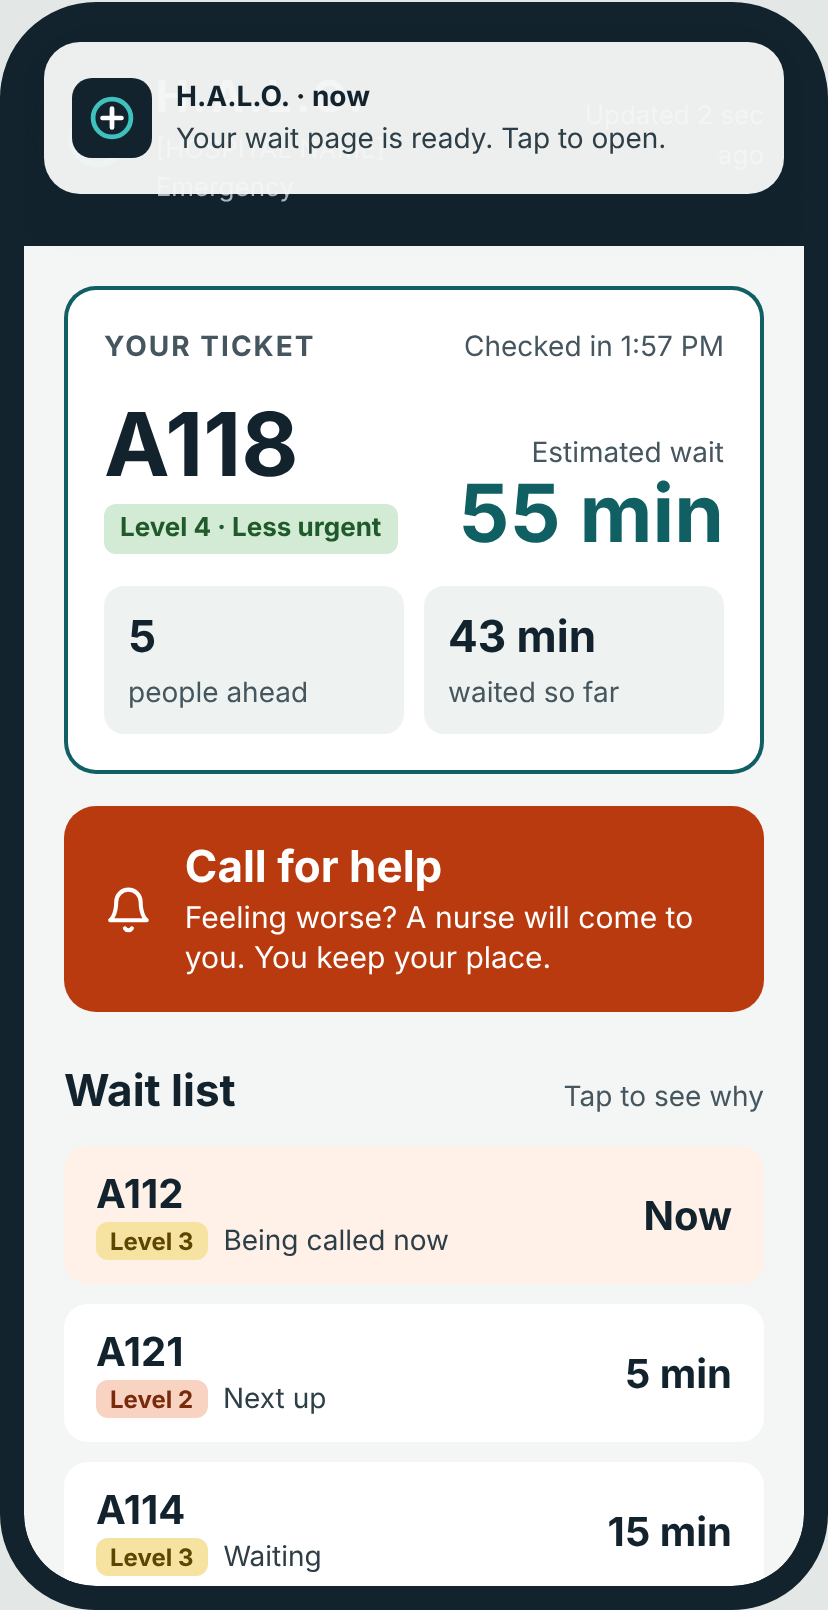
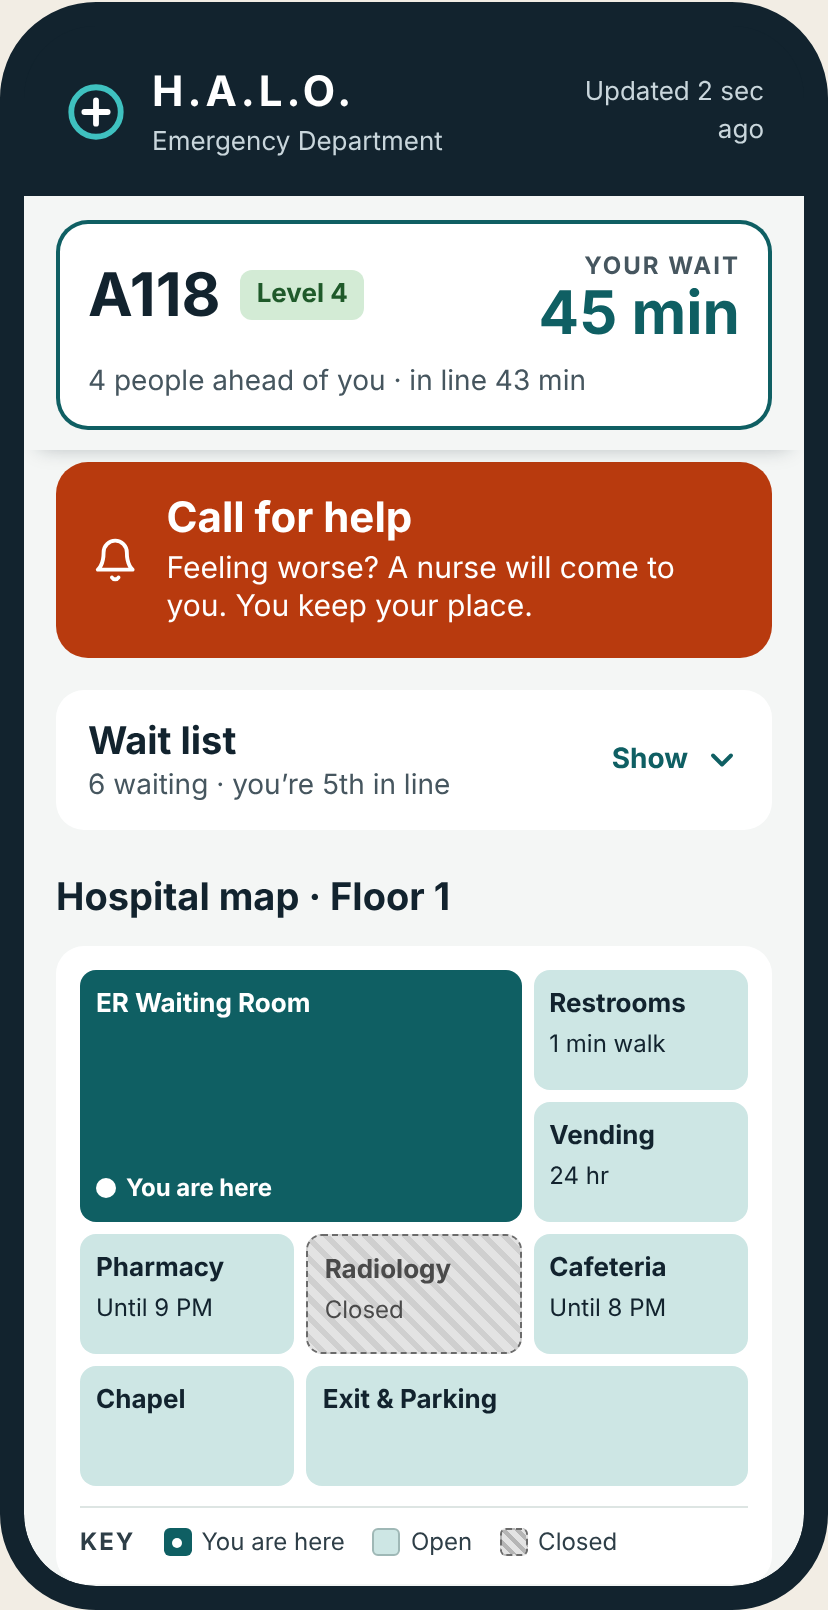
Simplify phone ticket card, pin it while scrolling, make wait list a dropdown
Claude-Session: https://claude.ai/code/session_01JPVrxjvNyRJugvYniBXqZG

diff --git a/index.html b/index.html
@@ -589,121 +589,132 @@ footer { font-size: 14px; color: var(--muted); display: flex; flex-wrap: wrap; g
   <div style="width: 900px; height: 36px; background: #151F25; border-radius: 6px"></div>
   <div style="margin-top: 22px; font-size: 16px; color: #46565F">Freestanding tower, same screen on all four sides</div>
 </div></template>
-<template id="phoneTpl"><div style="width: 390px; min-height: 1500px; box-sizing: border-box; background: #F4F6F5; font-family: 'Atkinson Hyperlegible', system-ui, sans-serif; color: #12232E; display: flex; flex-direction: column">
+<template id="phoneTpl"><div style="width: 390px; box-sizing: border-box; background: #F4F6F5; font-family: 'Atkinson Hyperlegible', system-ui, sans-serif; color: #12232E; display: flex; flex-direction: column; padding-bottom: 8px">
 
+  <!-- "page sent" notification after tapping the kiosk pad -->
   <sc-if value="{{nfcBanner}}" hint-placeholder-val="{{false}}">
-    <div role="status" style="position: sticky; top: 8px; z-index: 5; margin: 8px 10px -84px; height: 76px; box-sizing: border-box; padding: 12px 14px; border-radius: 18px; background: rgba(244,246,245,0.97); box-shadow: 0 6px 24px rgba(18,35,46,0.28); display: flex; align-items: center; gap: 12px">
+    <div role="status" style="position: sticky; top: 8px; z-index: 6; margin: 8px 10px -84px; height: 76px; box-sizing: border-box; padding: 12px 14px; border-radius: 18px; background: rgba(244,246,245,0.97); box-shadow: 0 6px 24px rgba(18,35,46,0.28); display: flex; align-items: center; gap: 12px">
       <div style="width: 40px; height: 40px; flex-shrink: 0; border-radius: 10px; background: #12232E; display: flex; align-items: center; justify-content: center"><svg width="26" height="26" viewBox="0 0 44 44" aria-hidden="true"><circle cx="22" cy="22" r="16" fill="none" stroke="#3FC1C0" stroke-width="4"></circle><path d="M22 14v16M14 22h16" stroke="#FFFFFF" stroke-width="4" stroke-linecap="round"></path></svg></div>
       <div style="display: flex; flex-direction: column"><div style="font-size: 14px; font-weight: 700">H.A.L.O. · now</div><div style="font-size: 14px; color: #2E3E47">Your wait page is ready. Tap to open.</div></div>
     </div>
   </sc-if>
-  <!-- Header -->
-  <header style="padding: 20px 20px 18px 20px; background: #12232E; color: #FFFFFF; display: flex; align-items: center; justify-content: space-between">
+
+  <!-- Header (scrolls away) -->
+  <header style="padding: 18px 20px 16px 20px; background: #12232E; color: #FFFFFF; display: flex; align-items: center; justify-content: space-between">
     <div style="display: flex; align-items: center; gap: 12px">
-      <svg width="34" height="34" viewBox="0 0 44 44" aria-hidden="true"><circle cx="22" cy="22" r="17" fill="none" stroke="{{halo}}" stroke-width="4"></circle><path d="M22 14v16M14 22h16" stroke="#FFFFFF" stroke-width="4" stroke-linecap="round"></path></svg>
+      <svg width="32" height="32" viewBox="0 0 44 44" aria-hidden="true"><circle cx="22" cy="22" r="17" fill="none" stroke="{{halo}}" stroke-width="4"></circle><path d="M22 14v16M14 22h16" stroke="#FFFFFF" stroke-width="4" stroke-linecap="round"></path></svg>
       <div style="display: flex; flex-direction: column">
-        <div style="font-size: 22px; font-weight: 700; letter-spacing: 2px">H.A.L.O.</div>
+        <div style="font-size: 21px; font-weight: 700; letter-spacing: 2px">H.A.L.O.</div>
         <div style="font-size: 13px; color: #C9D6DC">Emergency Department</div>
       </div>
     </div>
     <div style="font-size: 13px; color: #C9D6DC; text-align: right; max-width: 110px">{{sinceText}}</div>
   </header>
 
-  <!-- Your ticket -->
-  <section style="padding: 20px 20px 0 20px">
-    <div style="background: #FFFFFF; border-radius: 16px; padding: 20px; display: flex; flex-direction: column; gap: 16px; box-shadow: inset 0 0 0 2px #0F5F63">
-      <div style="display: flex; justify-content: space-between; align-items: baseline">
-        <div style="font-size: 14px; font-weight: 700; letter-spacing: 1px; color: #46565F">YOUR TICKET</div>
-        <div style="font-size: 14px; color: #46565F">{{me.checkin}}</div>
-      </div>
-      <div style="display: flex; align-items: flex-end; justify-content: space-between">
-        <div style="display: flex; flex-direction: column; gap: 8px"><div style="font-size: 44px; font-weight: 700; line-height: 1">A118</div><span style="{{me.lvlStyle}}">{{me.lvlText}}</span></div>
+  <!-- Your ticket: stays pinned while you scroll -->
+  <div style="position: sticky; top: 0; z-index: 4; background: #F4F6F5; padding: 12px 16px 10px 16px; box-shadow: 0 6px 10px -8px rgba(18,35,46,0.35)">
+    <div style="background: #FFFFFF; border-radius: 16px; padding: 14px 16px; box-shadow: inset 0 0 0 2px #0F5F63; display: flex; flex-direction: column; gap: 8px">
+      <div style="display: flex; align-items: center; justify-content: space-between; gap: 12px">
+        <div style="display: flex; align-items: center; gap: 10px">
+          <div style="font-size: 30px; font-weight: 700; line-height: 1">A118</div>
+          <span style="{{me.lvlStyle}}">{{me.lvlText}}</span>
+        </div>
         <div style="display: flex; flex-direction: column; align-items: flex-end">
-          <div style="font-size: 14px; color: #46565F">Estimated wait</div>
-          <div style="font-size: 40px; font-weight: 700; line-height: 1; color: #0F5F63; white-space: nowrap">{{me.wait}}</div>
+          <div style="font-size: 12px; font-weight: 700; letter-spacing: 1px; color: #46565F">YOUR WAIT</div>
+          <div style="font-size: 30px; font-weight: 700; line-height: 1; color: #0F5F63; white-space: nowrap">{{me.wait}}</div>
         </div>
       </div>
-      <div style="display: grid; grid-template-columns: repeat(2, minmax(0, 1fr)); gap: 10px">
-        <div style="background: #EEF3F2; border-radius: 10px; padding: 10px 12px"><div style="font-size: 22px; font-weight: 700">{{me.ahead}}</div><div style="font-size: 14px; color: #46565F">people ahead</div></div>
-        <div style="background: #EEF3F2; border-radius: 10px; padding: 10px 12px"><div style="font-size: 22px; font-weight: 700">{{me.waited}}</div><div style="font-size: 14px; color: #46565F">waited so far</div></div>
-      </div>
+      <div style="font-size: 14px; color: #46565F">{{me.line}}</div>
     </div>
-  </section>
+  </div>
 
   <!-- Call for help -->
-  <section style="padding: 16px 20px 0 20px">
-    <button onClick="{{pressHelp}}" aria-label="Call for help" style="width: 100%; border: 0; border-radius: 16px; background: {{phoneHelpBg}}; color: #FFFFFF; font-family: inherit; padding: 18px 20px; display: flex; align-items: center; gap: 16px; text-align: left; cursor: pointer">
-      <svg width="40" height="40" viewBox="0 0 24 24" fill="none" stroke="#FFFFFF" stroke-width="2" stroke-linecap="round" stroke-linejoin="round" aria-hidden="true"><path d="M18 8a6 6 0 0 0-12 0c0 7-3 9-3 9h18s-3-2-3-9"></path><path d="M13.7 21a2 2 0 0 1-3.4 0"></path></svg>
+  <section style="padding: 6px 16px 0 16px">
+    <button onClick="{{pressHelp}}" aria-label="Call for help" style="width: 100%; border: 0; border-radius: 16px; background: {{phoneHelpBg}}; color: #FFFFFF; font-family: inherit; padding: 16px 18px; display: flex; align-items: center; gap: 14px; text-align: left; cursor: pointer">
+      <svg width="36" height="36" viewBox="0 0 24 24" fill="none" stroke="#FFFFFF" stroke-width="2" stroke-linecap="round" stroke-linejoin="round" aria-hidden="true"><path d="M18 8a6 6 0 0 0-12 0c0 7-3 9-3 9h18s-3-2-3-9"></path><path d="M13.7 21a2 2 0 0 1-3.4 0"></path></svg>
       <span style="display: flex; flex-direction: column; gap: 2px">
-        <span style="font-size: 22px; font-weight: 700">{{phoneHelpTitle}}</span>
+        <span style="font-size: 21px; font-weight: 700">{{phoneHelpTitle}}</span>
         <span style="font-size: 15px; line-height: 1.3">{{phoneHelpSub}}</span>
       </span>
     </button>
   </section>
 
-  <!-- Wait list -->
-  <section style="padding: 24px 20px 0 20px; display: flex; flex-direction: column; gap: 10px">
-    <div style="display: flex; align-items: baseline; justify-content: space-between">
-      <h2 style="margin: 0; font-size: 22px">Wait list</h2>
-      <div style="font-size: 14px; color: #46565F">Tap to see why</div>
-    </div>
-    <sc-for list="{{rows}}" as="r" hint-placeholder-count="6">
-      <button onClick="{{r.onTap}}" style="{{r.rowStyle}}">
-        <div style="display: flex; align-items: center; justify-content: space-between; width: 100%">
-          <div style="display: flex; flex-direction: column; gap: 2px">
-            <div style="font-size: 20px; font-weight: 700">{{r.ticket}}<sc-if value="{{r.you}}" hint-placeholder-val="{{false}}"><span style="margin-left: 8px; font-size: 12px; font-weight: 700; color: #FFFFFF; background: #0F5F63; border-radius: 4px; padding: 2px 6px; vertical-align: middle">YOU</span></sc-if></div>
-            <div style="font-size: 14px; color: #2E3E47; display: flex; align-items: center; gap: 8px; flex-wrap: wrap"><span style="{{r.lvlStylePh}}">{{r.lvlText}}</span>{{r.status}}</div>
-          </div>
-          <div style="font-size: 20px; font-weight: 700">{{r.wait}}</div>
-        </div>
-        <sc-if value="{{r.open}}" hint-placeholder-val="{{false}}">
-          <div style="margin-top: 10px; padding-top: 10px; border-top: 1px solid #B9CFD0; font-size: 15px; line-height: 1.4; text-align: left; width: 100%">{{r.reason}}</div>
-        </sc-if>
-      </button>
-    </sc-for>
+  <!-- Wait list: a dropdown -->
+  <section style="padding: 16px 16px 0 16px; display: flex; flex-direction: column; gap: 8px">
+    <button onClick="{{toggleList}}" aria-expanded="{{listExpanded}}" style="width: 100%; border: 0; border-radius: 14px; background: #FFFFFF; color: #12232E; font-family: inherit; padding: 14px 16px; display: flex; align-items: center; justify-content: space-between; gap: 12px; text-align: left; cursor: pointer">
+      <span style="display: flex; flex-direction: column; gap: 2px">
+        <span style="font-size: 19px; font-weight: 700">Wait list</span>
+        <span style="font-size: 14px; color: #46565F">{{listSummary}}</span>
+      </span>
+      <span style="display: flex; align-items: center; gap: 8px; font-size: 14px; font-weight: 700; color: #0F5F63">
+        {{listAction}}
+        <svg width="18" height="18" viewBox="0 0 24 24" fill="none" stroke="#0F5F63" stroke-width="2.6" stroke-linecap="round" stroke-linejoin="round" aria-hidden="true" style="{{chevStyle}}"><path d="M6 9l6 6 6-6"></path></svg>
+      </span>
+    </button>
+    <sc-if value="{{listOpen}}" hint-placeholder-val="{{false}}">
+      <div style="display: flex; flex-direction: column; gap: 8px">
+        <div style="font-size: 13px; color: #46565F; padding: 0 4px">Seen by triage level first, then arrival. Tap a ticket to see why.</div>
+        <sc-for list="{{rows}}" as="r" hint-placeholder-count="6">
+          <button onClick="{{r.onTap}}" style="{{r.rowStyle}}">
+            <div style="display: flex; align-items: center; justify-content: space-between; width: 100%">
+              <div style="display: flex; flex-direction: column; gap: 2px">
+                <div style="font-size: 19px; font-weight: 700">{{r.ticket}}<sc-if value="{{r.you}}" hint-placeholder-val="{{false}}"><span style="margin-left: 8px; font-size: 12px; font-weight: 700; color: #FFFFFF; background: #0F5F63; border-radius: 4px; padding: 2px 6px; vertical-align: middle">YOU</span></sc-if></div>
+                <div style="font-size: 14px; color: #2E3E47; display: flex; align-items: center; gap: 8px; flex-wrap: wrap"><span style="{{r.lvlStylePh}}">{{r.lvlText}}</span>{{r.status}}</div>
+              </div>
+              <div style="font-size: 19px; font-weight: 700; white-space: nowrap">{{r.wait}}</div>
+            </div>
+            <sc-if value="{{r.open}}" hint-placeholder-val="{{false}}">
+              <div style="margin-top: 10px; padding-top: 10px; border-top: 1px solid #B9CFD0; font-size: 15px; line-height: 1.4; text-align: left; width: 100%">{{r.reason}}</div>
+            </sc-if>
+          </button>
+        </sc-for>
+      </div>
+    </sc-if>
   </section>
 
   <!-- Map -->
-  <section style="padding: 24px 20px 0 20px; display: flex; flex-direction: column; gap: 10px">
-    <div style="display: flex; justify-content: space-between; align-items: baseline">
-      <h2 style="margin: 0; font-size: 22px">Hospital map</h2>
-      <div style="display: flex; gap: 10px; font-size: 13px; color: #46565F">
-        <span style="display: flex; align-items: center; gap: 4px"><span style="width: 10px; height: 10px; border-radius: 2px; background: #CDE6E4"></span>Open</span>
-        <span style="display: flex; align-items: center; gap: 4px"><span style="width: 10px; height: 10px; border-radius: 2px; background: #E3E3E3; border: 1px dashed #6B6B6B"></span>Closed</span>
+  <section style="padding: 20px 16px 0 16px; display: flex; flex-direction: column; gap: 10px">
+    <h2 style="margin: 0; font-size: 19px">Hospital map · Floor 1</h2>
+    <div style="background: #FFFFFF; border-radius: 14px; padding: 12px; display: flex; flex-direction: column; gap: 10px">
+      <div style="display: grid; grid-template-columns: repeat(3, minmax(0, 1fr)); grid-template-rows: 60px 60px 60px 60px; gap: 6px; font-size: 13px; font-weight: 700">
+        <div style="grid-column: span 2; grid-row: span 2; background: #0F5F63; color: #FFFFFF; border-radius: 8px; padding: 8px; display: flex; flex-direction: column; justify-content: space-between">
+          <span>ER Waiting Room</span>
+          <span style="display: flex; align-items: center; gap: 5px; font-size: 12px"><span style="width: 10px; height: 10px; border-radius: 5px; background: #FFFFFF"></span>You are here</span>
+        </div>
+        <div style="background: #CDE6E4; border-radius: 8px; padding: 8px">Restrooms<div style="font-weight: 400; font-size: 12px">1 min walk</div></div>
+        <div style="background: #CDE6E4; border-radius: 8px; padding: 8px">Vending<div style="font-weight: 400; font-size: 12px">24 hr</div></div>
+        <div style="background: #CDE6E4; border-radius: 8px; padding: 8px">Pharmacy<div style="font-weight: 400; font-size: 12px">Until 9 PM</div></div>
+        <div style="background: repeating-linear-gradient(45deg, #E3E3E3 0 4px, #CFCFCF 4px 7px); border: 1px dashed #6B6B6B; color: #4A4A4A; border-radius: 8px; padding: 8px">Radiology<div style="font-weight: 400; font-size: 12px">Closed</div></div>
+        <div style="background: #CDE6E4; border-radius: 8px; padding: 8px">Cafeteria<div style="font-weight: 400; font-size: 12px">Until 8 PM</div></div>
+        <div style="background: #CDE6E4; border-radius: 8px; padding: 8px">Chapel</div>
+        <div style="grid-column: span 2; background: #CDE6E4; border-radius: 8px; padding: 8px">Exit &amp; Parking</div>
       </div>
-    </div>
-    <div style="background: #FFFFFF; border-radius: 14px; padding: 12px; display: grid; grid-template-columns: repeat(3, minmax(0, 1fr)); grid-template-rows: 64px 64px 64px 64px; gap: 6px; font-size: 13px; font-weight: 700">
-      <div style="grid-column: span 2; grid-row: span 2; background: #0F5F63; color: #FFFFFF; border-radius: 8px; padding: 8px; display: flex; flex-direction: column; justify-content: space-between">
-        <span>ER Waiting Room</span>
-        <span style="display: flex; align-items: center; gap: 5px; font-size: 12px"><span style="width: 10px; height: 10px; border-radius: 5px; background: #FFFFFF"></span>You are here</span>
+      <div style="display: flex; flex-wrap: wrap; align-items: center; gap: 6px 14px; font-size: 12px; color: #2E3E47; border-top: 1px solid #DDE5E3; padding-top: 8px">
+        <span style="font-weight: 700; letter-spacing: 1px">KEY</span>
+        <span style="display: flex; align-items: center; gap: 5px"><span style="width: 14px; height: 14px; border-radius: 3px; background: #0F5F63; display: flex; align-items: center; justify-content: center"><span style="width: 5px; height: 5px; border-radius: 3px; background: #FFFFFF"></span></span>You are here</span>
+        <span style="display: flex; align-items: center; gap: 5px"><span style="width: 14px; height: 14px; border-radius: 3px; background: #CDE6E4; border: 1px solid #9FB8B6"></span>Open</span>
+        <span style="display: flex; align-items: center; gap: 5px"><span style="width: 14px; height: 14px; border-radius: 3px; background: repeating-linear-gradient(45deg, #E3E3E3 0 3px, #B5B5B5 3px 5px); border: 1px dashed #6B6B6B"></span>Closed</span>
       </div>
-      <div style="background: #CDE6E4; border-radius: 8px; padding: 8px">Restrooms<div style="font-weight: 400; font-size: 12px">1 min walk</div></div>
-      <div style="background: #CDE6E4; border-radius: 8px; padding: 8px">Vending<div style="font-weight: 400; font-size: 12px">24 hr</div></div>
-      <div style="background: #CDE6E4; border-radius: 8px; padding: 8px">Pharmacy<div style="font-weight: 400; font-size: 12px">Until 9 PM</div></div>
-      <div style="background: #E3E3E3; border: 1px dashed #6B6B6B; color: #4A4A4A; border-radius: 8px; padding: 8px">Radiology<div style="font-weight: 400; font-size: 12px">Closed</div></div>
-      <div style="grid-column: span 2; background: #CDE6E4; border-radius: 8px; padding: 8px">Cafeteria<div style="font-weight: 400; font-size: 12px">Open until 8 PM</div></div>
-      <div style="background: #CDE6E4; border-radius: 8px; padding: 8px">Chapel</div>
-      <div style="grid-column: span 2; background: #CDE6E4; border-radius: 8px; padding: 8px">Exit &amp; Parking</div>
     </div>
   </section>
 
-  <!-- Videos -->
-  <section style="padding: 24px 20px 0 20px; display: flex; flex-direction: column; gap: 10px">
-    <h2 style="margin: 0; font-size: 22px">While you wait</h2>
+  <!-- Video -->
+  <section style="padding: 20px 16px 0 16px; display: flex; flex-direction: column; gap: 10px">
+    <h2 style="margin: 0; font-size: 19px">While you wait</h2>
     <div style="background: #FFFFFF; border-radius: 14px; overflow: hidden">
-      <div style="height: 170px; background: #12232E; display: flex; align-items: center; justify-content: center; position: relative">
-        <svg width="52" height="52" viewBox="0 0 24 24" aria-hidden="true"><circle cx="12" cy="12" r="11" fill="none" stroke="#FFFFFF" stroke-width="1.5"></circle><path d="M10 8l6 4-6 4z" fill="#FFFFFF"></path></svg>
-        <div style="position: absolute; left: 12px; right: 12px; bottom: 12px; height: 4px; border-radius: 2px; background: #3A4C56"><div style="width: 38%; height: 4px; border-radius: 2px; background: {{halo}}"></div></div>
+      <div style="height: 150px; background: #0F5F63; display: flex; flex-direction: column; align-items: center; justify-content: center; gap: 6px; position: relative; color: #FFFFFF">
+        <span style="position: absolute; top: 10px; left: 12px; font-size: 11px; font-weight: 700; letter-spacing: 1.5px; color: #CDE6E4">PATIENT EDUCATION</span>
+        <svg width="48" height="48" viewBox="0 0 24 24" aria-hidden="true"><circle cx="12" cy="12" r="11" fill="rgba(0,0,0,0.25)" stroke="#FFFFFF" stroke-width="1.5"></circle><path d="M10 8l6 4-6 4z" fill="#FFFFFF"></path></svg>
+        <span style="font-size: 15px; font-weight: 700">While You Wait</span>
       </div>
-      <div style="padding: 14px 16px; display: flex; flex-direction: column; gap: 4px">
-        <div style="font-size: 18px; font-weight: 700">While you wait: staying safe</div>
-        <div style="font-size: 14px; color: #46565F">Captions on · Plays on the H.A.L.O. kiosk</div>
+      <div style="padding: 12px 14px; display: flex; flex-direction: column; gap: 2px">
+        <div style="font-size: 17px; font-weight: 700">While you wait: staying safe</div>
+        <div style="font-size: 14px; color: #46565F">0:30 · Captions on · Plays on the H.A.L.O. kiosk</div>
       </div>
     </div>
   </section>
 
-  <!-- Footer -->
-  <footer style="margin-top: auto; padding: 20px; display: flex; justify-content: space-between; font-size: 14px; color: #46565F">
+  <footer style="padding: 18px 16px 10px; display: flex; justify-content: space-between; font-size: 14px; color: #46565F">
     <span>Same info as the H.A.L.O. kiosk</span>
     <a href="#">Español</a>
   </footer>
@@ -1340,7 +1351,7 @@ class Component extends DCLogic {
   const kTpl = document.getElementById('kioskTpl'), pTpl = document.getElementById('phoneTpl');
   mountClicks(kHost); mountClicks(pHost);
 
-  const phone = { open: 'A118' };
+  const phone = { open: 'A118', listOpen: false };
   const checkin = new Date(Date.now() - 43 * 60000);
   const ME = 'A118';
 
@@ -1364,9 +1375,11 @@ class Component extends DCLogic {
       ahead: idx < 0 ? 0 : idx,
       waited: waited + ' min',
       checkin: 'Checked in ' + kiosk.fmtTime(checkin),
-      lvlText: 'Level 4 · ' + L[4].name,
-      lvlStyle: 'align-self: flex-start; font-size: 13px; font-weight: 700; padding: 3px 8px; border-radius: 6px; background: ' + L[4].bg + '; color: ' + L[4].fg
+      lvlText: 'Level 4',
+      lvlStyle: 'display: inline-block; white-space: nowrap; font-size: 13px; font-weight: 700; padding: 3px 8px; border-radius: 6px; background: ' + L[4].bg + '; color: ' + L[4].fg,
+      line: idx < 0 ? 'You’re being called. Head to the doors on your right.' : (idx === 0 ? 'You’re being called now' : idx + (idx === 1 ? ' person' : ' people') + ' ahead of you · in line ' + waited + ' min')
     };
+    const ord = (n) => n + (n % 10 === 1 && n % 100 !== 11 ? 'st' : n % 10 === 2 && n % 100 !== 12 ? 'nd' : n % 10 === 3 && n % 100 !== 13 ? 'rd' : 'th');
     const alarm = s.mode === 'help';
     const tick = s.tick || 0;
     const flashOn = Math.floor(tick / 5) % 2 === 0;
@@ -1375,6 +1388,11 @@ class Component extends DCLogic {
     return {
       halo: kv.halo, help: kv.help, rows, me, sinceText: kv.sinceText,
       nfcBanner: tick < (s.nfcUntil || 0),
+      listOpen: phone.listOpen, listExpanded: phone.listOpen ? 'true' : 'false',
+      listSummary: q.length + ' waiting' + (idx < 0 ? '' : ' · you’re ' + ord(idx + 1) + ' in line'),
+      listAction: phone.listOpen ? 'Hide' : 'Show',
+      chevStyle: phone.listOpen ? 'transform: rotate(180deg)' : '',
+      toggleList: () => { phone.listOpen = !phone.listOpen; schedule(); },
       phoneHelpBg: alarm ? (flashOn ? kv.help : '#7A1C05') : kv.help,
       phoneHelpTitle: alarm ? 'Help is on the way' : 'Call for help',
       phoneHelpSub: alarm ? (etaS > 0 ? 'Nurse arriving in ' + Math.floor(etaS / 60) + ':' + String(etaS % 60).padStart(2, '0') + '. You keep your place.' : 'A nurse is arriving now.') : 'Feeling worse? A nurse will come to you. You keep your place.',

diff --git a/README.md b/README.md
@@ -19,7 +19,7 @@ An interactive prototype of **H.A.L.O.**, a live wait screen for the emergency r
 | Call for help | The button grows into a flashing alarm that covers the map, the tower's light ring turns red, and a countdown shows when the nurse arrives. Patients keep their place in line. Works from the phone too. |
 | Detailed map | Tapping a place opens a floor plan with a moving route from "You are here," hours, walking time and a full map key. |
 | Patient education video | A 30-second captioned stick-figure spot with three safety tips: clean hands, ask before you eat or drink, and tell staff if you feel worse. |
-| Phone page | Shows the patient's own ticket (A118), triage level, people ahead and wait time, all synced to the kiosk. |
+| Phone page | A simple ticket card (number, triage level, wait, people ahead) stays pinned to the top as you scroll. The wait list is a dropdown, so the map and video are a short scroll away. Everything stays synced to the kiosk. |
 | 3D model | Under the front desk panel: the printable tower model, rebuilt from our PrusaSlicer file. Drag to turn it, zoom in and out, or press **Start rotating**. Runs on a small built-in WebGL viewer, so it needs no internet. The original print file is in [`model/`](model/). |
 
 <p>
